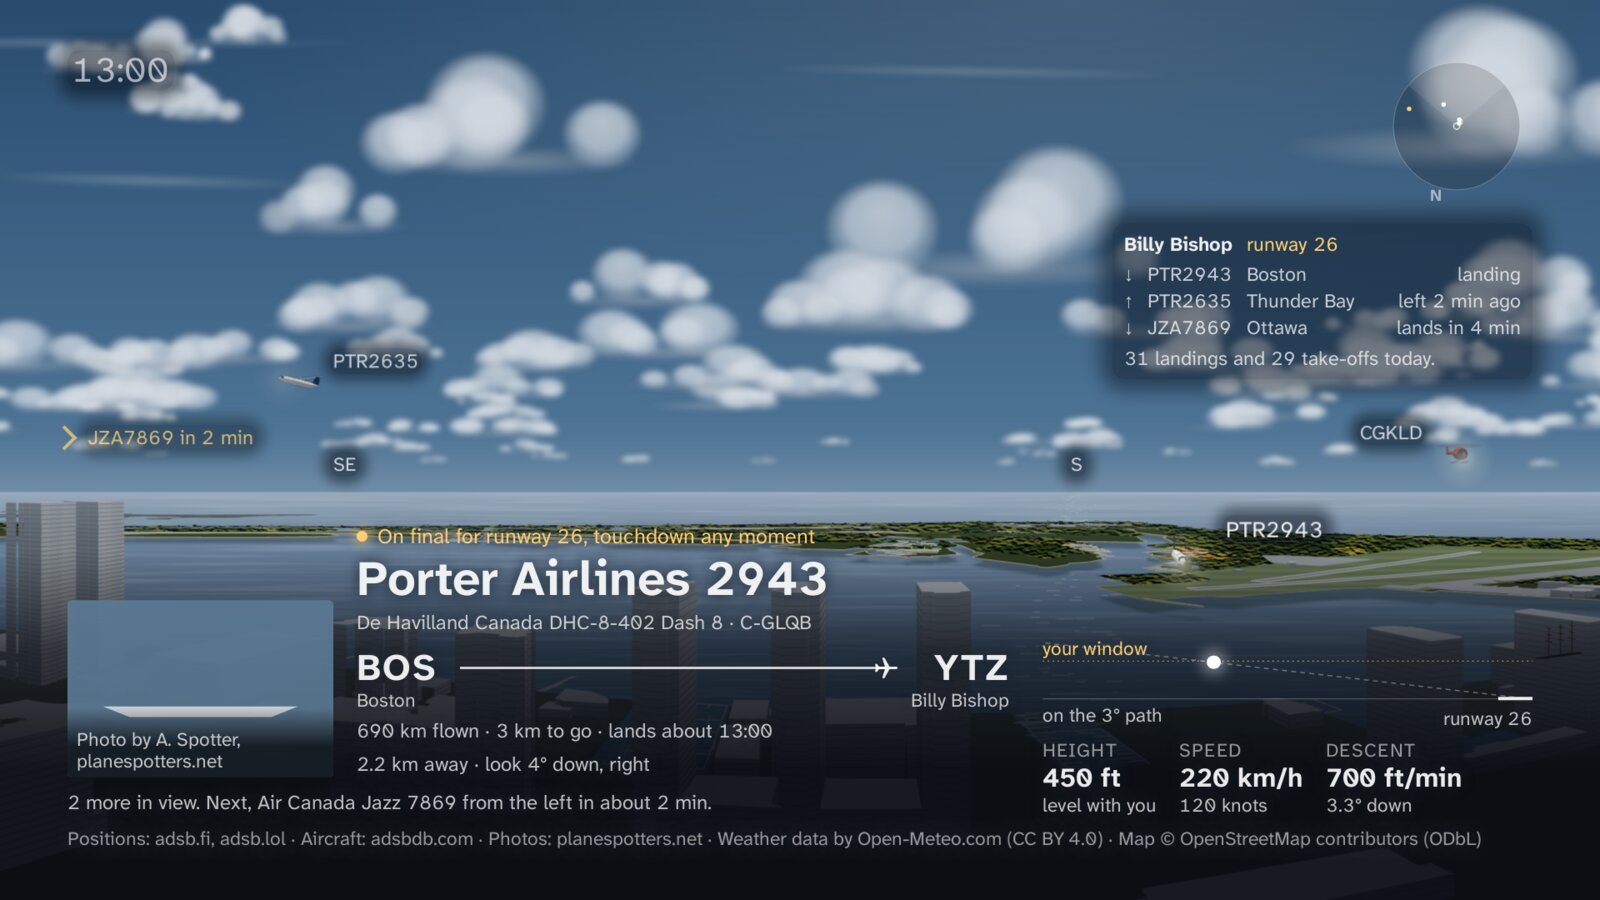
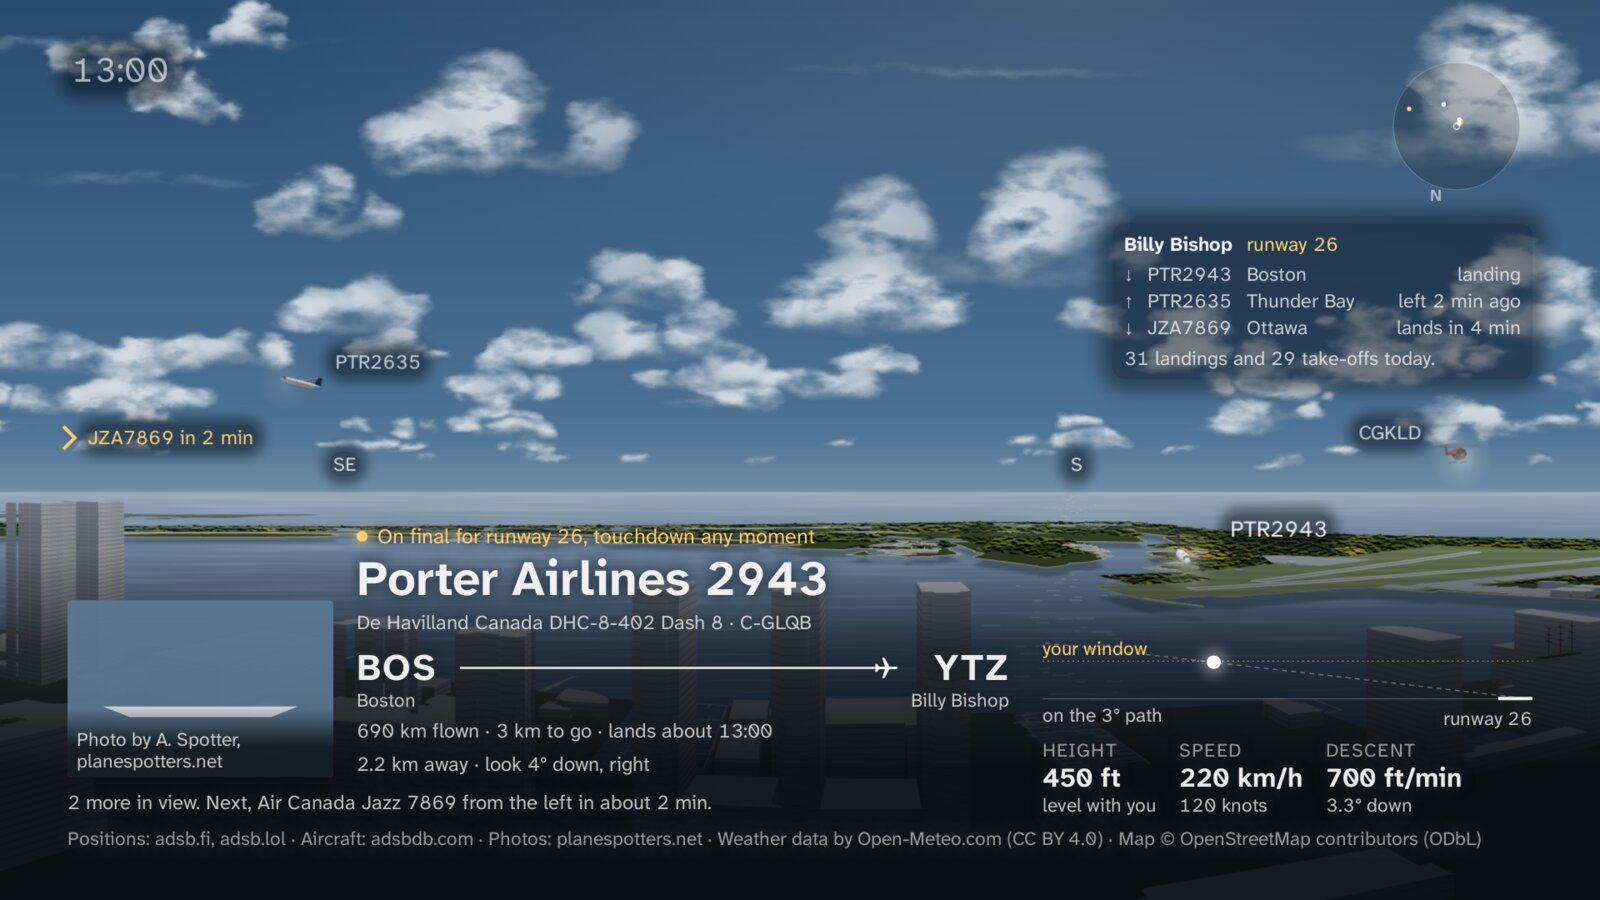
fix(web): clouds that look like clouds
On a day of real broken cloud the home screen filled with soft round blobs. Noise
now tears each puff's edge and thins it into wisps. It is painted once per reading
or whole degree of sun, then only moved, so the TV rules still hold; it costs about
2 s more CPU on a page load (Chromium 79, 1080p, no GPU, 9-10 s before).

The overcast deck stays out of the filter: an overcast sky is smooth, and the noise
would punch holes in it.

diff --git a/web/components/Clouds.tsx b/web/components/Clouds.tsx
@@ -62,9 +62,32 @@ function Clouds({ weather, w, sunAlt, horizonY }: Props) {
             <stop offset="0" stopColor={scape.lit} stopOpacity="0.32" />
             <stop offset="1" stopColor={scape.lit} stopOpacity="0" />
           </radialGradient>
-          {/* A slight blur melts the puffs into one another. It is painted once per reading, then only moved. */}
+          {/* Puffs alone read as a cartoon. Noise tears their edges, then thins them into wisps, as water vapour does;
+              a slight blur melts them together. It is painted once per reading, then only moved. */}
           <filter id="soften" x="-5%" y="-5%" width="110%" height="110%">
-            <feGaussianBlur stdDeviation="1.6 2.8" />
+            <feGaussianBlur in="SourceGraphic" stdDeviation="1.2 2" result="soft" />
+            <feTurbulence
+              type="fractalNoise"
+              baseFrequency="0.03 0.032"
+              numOctaves="5"
+              seed="7"
+              result="noise"
+            />
+            <feDisplacementMap
+              in="soft"
+              in2="noise"
+              scale="24"
+              xChannelSelector="R"
+              yChannelSelector="G"
+              result="torn"
+            />
+            <feColorMatrix
+              in="noise"
+              type="matrix"
+              values="0 0 0 0 1  0 0 0 0 1  0 0 0 0 1  0 0 0 -2.6 2.2"
+              result="wisps"
+            />
+            <feComposite in="torn" in2="wisps" operator="in" />
           </filter>
           <linearGradient id="deck" x1="0" y1="0" x2="0" y2={hy} gradientUnits="userSpaceOnUse">
             <stop offset="0" stopColor={scape.shade} />
@@ -89,7 +112,16 @@ function Clouds({ weather, w, sunAlt, horizonY }: Props) {
             </pattern>
           )}
         </defs>
-        <g opacity={scape.opacity} filter="url(#soften)">
+        {/* The deck stays out of the filter: an overcast sky is smooth, and noise would punch holes in it. */}
+        {scape.deck > 0 && (
+          <g opacity={scape.opacity}>
+            <rect x="-40" y="-20" width="1080" height={hy + 20} fill="url(#deck)" opacity={scape.deck} />
+          </g>
+        )}
+        <g
+          opacity={scape.opacity}
+          filter={scape.streaks.length + scape.puffs.length ? "url(#soften)" : undefined}
+        >
           {scape.streaks.map((s, i) => (
             <ellipse
               key={`s${i}`}
@@ -101,9 +133,6 @@ function Clouds({ weather, w, sunAlt, horizonY }: Props) {
               transform={`rotate(${(s.tilt ?? 0).toFixed(1)} ${k(s.cx)} ${k(s.cy)})`}
             />
           ))}
-          {scape.deck > 0 && (
-            <rect x="-40" y="-20" width="1080" height={hy + 20} fill="url(#deck)" opacity={scape.deck} />
-          )}
           {scape.puffs.map((p, i) => (
             <ellipse
               key={i}
